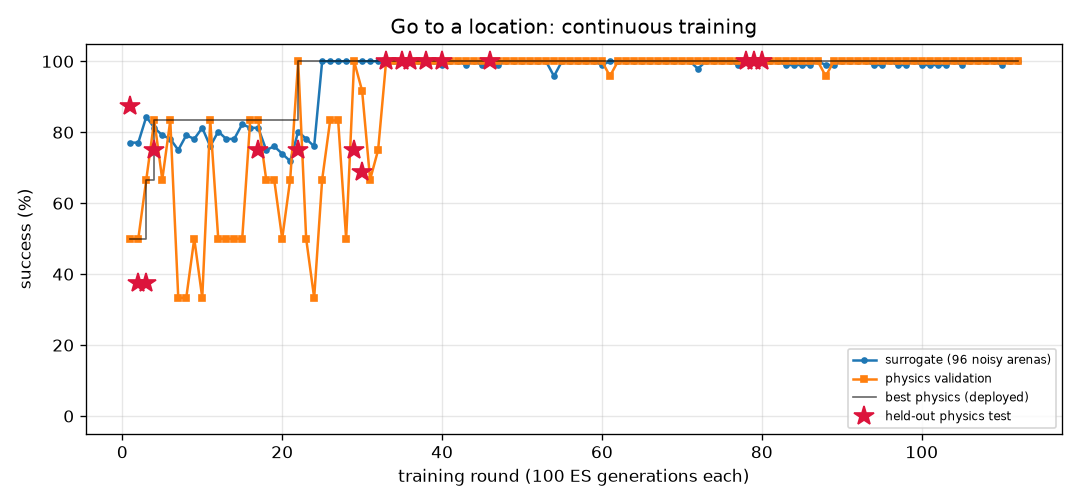
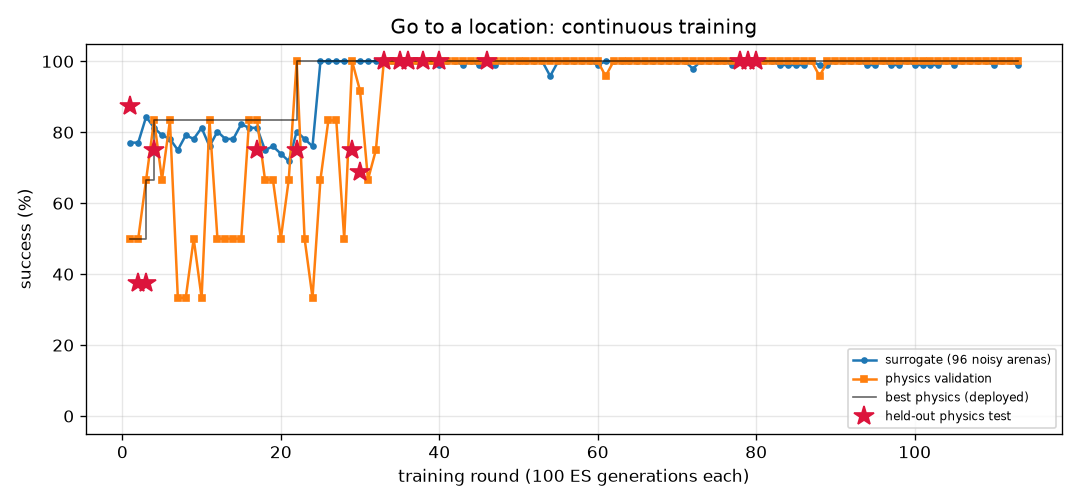
FlyLab: continuous training progress
- walk_forward: optimal, physics val 100% of 24, round 118
- turn: optimal, physics val 100% of 24, round 532
- goto: optimal, physics val 100% of 24, round 113
- odor_seek: optimal, physics val 100% of 24, round 107
- odor_avoid: optimal, physics val 100% of 24, round 531
- light_seek: optimal, physics val 100% of 24, round 299
- light_avoid: optimal, physics val 100% of 24, round 265

diff --git a/projects/09_flylab/training/light_seek/REPORT.md b/projects/09_flylab/training/light_seek/REPORT.md
@@ -1,14 +1,14 @@
 # Walk toward light (`light_seek`) — training report
 
-*Auto-generated by `train_brains.py`, last updated 2026-10-18T12:38:41.*
+*Auto-generated by `train_brains.py`, last updated 2026-10-18T13:41:15.*
 
 ![curve](curve.png)
 
 | | |
 |---|---|
-| rounds | 297 |
-| ES generations | 29700 |
-| physics runs | 3976 |
+| rounds | 299 |
+| ES generations | 29900 |
+| physics runs | 4024 |
 | status | **optimal** |
 | best brain | round 295: physics validation **100%** on 24 arenas, surrogate 100% |
 | held-out physics test | **100%** on 32 unseen arenas (95% CI 89%-100%) (errors: [0.58, 0.62, 0.61, 0.63, 0.65, 0.65, 0.73, 0.55, 0.64, 0.59, 0.59, 0.58, 0.69, 0.61, 0.59, 0.6, 0.6, 0.63, 0.59, 0.64, 0.61, 1.11, 0.62, 0.58, 0.58, 0.58, 0.67, 0.63, 0.58, 0.66, 0.67, 0.59]) |
@@ -17,8 +17,6 @@ Physics error per arena: mm from target at the end (< 1.5 and standing still = s
 
 | round | level | gens | sigma | surrogate | physics val | val errors | test | note |
 |---:|---:|---:|---:|---:|---:|---|---:|---|
-| 258 | 3 | 25800 | 0.024 | 100% | 100% | [0.48, 0.49, 0.43, 0.95, 0.43, 0.7, 0.51, 0.57, 0.51, 0.44, 0.44, 0.42, 0.45, 0.45, 0.43, 0.44, 0.47, 0.51, 0.47, 0.44, 0.43, 1.12, 0.44, 0.68] |  |  |
-| 259 | 3 | 25900 | 0.024 | 100% | 100% | [1.12, 0.48, 0.44, 0.47, 0.46, 0.97, 0.64, 0.55, 1.06, 0.43, 0.49, 0.62, 0.47, 0.8, 0.53, 0.65, 0.67, 0.66, 0.48, 0.55, 0.56, 1.05, 0.56, 0.42] |  | restart from best |
 | 260 | 3 | 26000 | 0.024 | 100% | 100% | [0.48, 0.52, 0.48, 1.19, 0.46, 0.47, 0.47, 0.48, 0.46, 0.48, 0.49, 0.47, 0.51, 0.57, 0.79, 0.46, 0.46, 0.92, 0.57, 0.49, 0.86, 0.52, 0.56, 0.49] |  |  |
 | 261 | 3 | 26100 | 0.024 | 100% | 100% | [0.48, 0.6, 0.46, 0.82, 0.55, 0.45, 0.5, 0.44, 0.45, 0.48, 0.45, 0.47, 0.48, 0.52, 0.86, 0.45, 0.7, 0.59, 0.74, 0.48, 0.45, 0.47, 0.5, 0.45] |  |  |
 | 262 | 3 | 26200 | 0.024 | 99% | 100% | [0.94, 0.74, 0.58, 0.87, 0.73, 0.96, 0.88, 1.1, 0.6, 0.55, 0.57, 0.5, 1.21, 0.93, 0.62, 0.57, 0.6, 0.94, 0.58, 0.59, 0.57, 0.82, 0.53, 0.53] |  |  |
@@ -57,3 +55,5 @@ Physics error per arena: mm from target at the end (< 1.5 and standing still = s
 | 295 | 3 | 29500 | 0.024 | 100% | 100% | [0.53, 0.58, 0.65, 0.58, 0.68, 0.6, 0.63, 0.66, 0.69, 0.62, 0.63, 0.63, 0.6, 0.65, 0.61, 0.59, 0.67, 0.77, 0.62, 0.65, 0.61, 0.64, 0.64, 0.62] | 100% | new best |
 | 296 | 3 | 29600 | 0.024 | 100% | 100% | [0.51, 0.5, 0.51, 0.65, 0.76, 0.5, 0.57, 0.53, 0.49, 0.83, 0.53, 0.49, 0.51, 0.53, 0.74, 0.49, 0.6, 0.81, 0.65, 0.7, 0.48, 0.72, 0.51, 0.56] |  |  |
 | 297 | 3 | 29700 | 0.024 | 100% | 100% | [0.85, 0.79, 0.53, 0.58, 0.49, 0.59, 0.47, 0.52, 0.51, 0.59, 0.49, 0.51, 0.55, 0.55, 0.6, 0.54, 0.59, 0.47, 0.55, 0.52, 0.46, 0.86, 0.82, 0.6] |  |  |
+| 298 | 3 | 29800 | 0.024 | 100% | 92% | [0.53, 0.56, 0.55, 0.52, 0.52, 0.56, 0.5, 0.58, 0.47, 0.62, 0.46, 1.1, 0.62, 1.01, 0.55, 0.54, 0.57, 0.46, 0.5, 0.56, 0.59, 0.69, 1.55, 2.07] |  |  |
+| 299 | 3 | 29900 | 0.024 | 100% | 96% | [1.06, 0.49, 0.52, 0.48, 0.54, 1.17, 0.82, 0.52, 0.5, 0.53, 0.69, 0.74, 0.62, 1.69, 0.54, 0.51, 0.58, 1.2, 1.07, 0.6, 0.54, 0.72, 0.48, 1.12] |  | restart from best |

diff --git a/projects/09_flylab/training/goto/REPORT.md b/projects/09_flylab/training/goto/REPORT.md
@@ -1,14 +1,14 @@
 # Go to a location (`goto`) — training report
 
-*Auto-generated by `train_brains.py`, last updated 2026-10-17T20:01:15.*
+*Auto-generated by `train_brains.py`, last updated 2026-10-18T13:27:41.*
 
 ![curve](curve.png)
 
 | | |
 |---|---|
-| rounds | 112 |
-| ES generations | 11200 |
-| physics runs | 2574 |
+| rounds | 113 |
+| ES generations | 11300 |
+| physics runs | 2598 |
 | status | **optimal** |
 | best brain | round 80: physics validation **100%** on 24 arenas, surrogate 100% |
 | held-out physics test | **100%** on 32 unseen arenas (95% CI 89%-100%) (errors: [0.36, 0.41, 0.3, 0.45, 0.32, 0.33, 0.33, 0.31, 0.35, 0.36, 0.39, 0.36, 0.28, 0.31, 0.4, 0.39, 0.34, 0.39, 0.3, 0.34, 0.36, 0.36, 0.44, 0.34, 0.3, 0.33, 0.4, 0.33, 0.29, 0.43, 0.43, 0.39]) |
@@ -17,7 +17,6 @@ Physics error per arena: mm from target at the end (< 1.5 and standing still = s
 
 | round | level | gens | sigma | surrogate | physics val | val errors | test | note |
 |---:|---:|---:|---:|---:|---:|---|---:|---|
-| 73 | 3 | 7300 | 0.025 | 100% | 100% | [0.74, 0.75, 0.6, 0.66, 0.77, 0.64, 0.76, 0.68, 0.7, 0.62, 0.68, 0.64, 0.72, 0.61, 0.71, 0.69, 0.75, 0.63, 0.61, 0.7, 0.68, 0.63, 0.75, 0.64] |  |  |
 | 74 | 3 | 7400 | 0.024 | 100% | 100% | [0.68, 0.66, 0.49, 0.51, 0.52, 0.5, 0.67, 0.59, 0.53, 0.51, 0.53, 0.5, 0.57, 0.51, 0.55, 0.63, 0.59, 0.52, 0.51, 0.54, 0.6, 0.51, 0.59, 0.49] |  | restart from best |
 | 75 | 3 | 7500 | 0.024 | 100% | 100% | [0.77, 0.76, 0.58, 0.59, 0.58, 0.61, 0.72, 0.65, 0.63, 0.58, 0.57, 0.59, 0.69, 0.56, 0.58, 0.68, 0.72, 0.65, 0.59, 0.65, 0.65, 0.58, 0.69, 0.6] |  |  |
 | 76 | 3 | 7600 | 0.024 | 100% | 100% | [0.6, 0.56, 0.42, 0.45, 0.54, 0.45, 0.6, 0.45, 0.5, 0.42, 0.49, 0.44, 0.55, 0.39, 0.45, 0.46, 0.59, 0.46, 0.43, 0.48, 0.45, 0.43, 0.55, 0.43] |  |  |
@@ -57,3 +56,4 @@ Physics error per arena: mm from target at the end (< 1.5 and standing still = s
 | 110 | 3 | 11000 | 0.024 | 99% | 100% | [0.51, 0.47, 0.37, 0.47, 0.36, 0.41, 0.5, 0.45, 0.52, 0.39, 0.38, 0.46, 0.53, 0.39, 0.43, 0.43, 0.53, 0.42, 0.37, 0.51, 0.39, 0.41, 0.52, 0.46] |  |  |
 | 111 | 3 | 11100 | 0.025 | 100% | 100% | [0.44, 0.45, 0.37, 0.42, 0.34, 0.41, 0.42, 0.45, 0.46, 0.34, 0.36, 0.41, 0.47, 0.39, 0.45, 0.39, 0.47, 0.39, 0.33, 0.44, 0.38, 0.34, 0.48, 0.45] |  |  |
 | 112 | 3 | 11200 | 0.024 | 100% | 100% | [0.49, 0.46, 0.43, 0.37, 0.39, 0.34, 0.5, 0.37, 0.4, 0.37, 0.36, 0.37, 0.43, 0.35, 0.43, 0.43, 0.46, 0.34, 0.37, 0.4, 0.41, 0.36, 0.43, 0.36] |  | restart from best |
+| 113 | 3 | 11300 | 0.024 | 99% | 100% | [0.44, 0.39, 0.28, 0.36, 0.29, 0.31, 0.39, 0.35, 0.37, 0.32, 0.31, 0.35, 0.39, 0.32, 0.37, 0.36, 0.46, 0.36, 0.3, 0.4, 0.33, 0.32, 0.43, 0.34] |  |  |

diff --git a/projects/09_flylab/training/TRAINING.md b/projects/09_flylab/training/TRAINING.md
@@ -1,6 +1,6 @@
 # FlyLab brains — continuous training log
 
-*Auto-generated by `train_brains.py`, last updated 2026-10-18T12:55:45.*
+*Auto-generated by `train_brains.py`, last updated 2026-10-18T13:41:15.*
 
 Every skill has its own brain and its own training process: surrogate ES rounds, physics validation in MuJoCo, keep-the-best selection, and a held-out physics test that is never used for selection. See each skill's report for its full round-by-round history. Mastery is progressive: passing a level (100% physics validation, >=95% surrogate) doubles the validation and test arena sets; a brain is **optimal** once it holds up at level 3 (>=95% of 24 validation arenas) AND scores >=90% on the 32 held-out test arenas. Test columns show 95% Wilson confidence intervals.
 
@@ -8,8 +8,8 @@ Every skill has its own brain and its own training process: surrogate ES rounds,
 |---|---:|---:|---:|---:|---:|---:|---|
 | [Walk forward](walk_forward/REPORT.md) | 118 | 11800 | 2846 | 100% | 100% of 24 | 100% of 32 (CI 89-100%) | **optimal** |
 | [Turn in place](turn/REPORT.md) | 532 | 53200 | 13014 | 100% | 100% of 24 | 97% of 32 (CI 84-99%) | **optimal** |
-| [Go to a location](goto/REPORT.md) | 112 | 11200 | 2574 | 100% | 100% of 24 | 100% of 32 (CI 89-100%) | **optimal** |
+| [Go to a location](goto/REPORT.md) | 113 | 11300 | 2598 | 100% | 100% of 24 | 100% of 32 (CI 89-100%) | **optimal** |
 | [Find food by smell](odor_seek/REPORT.md) | 107 | 10700 | 1934 | 100% | 100% of 24 | 100% of 32 (CI 89-100%) | **optimal** |
 | [Escape a bad smell](odor_avoid/REPORT.md) | 531 | 53100 | 10050 | 97% | 100% of 24 | 97% of 32 (CI 84-99%) | **optimal** |
-| [Walk toward light](light_seek/REPORT.md) | 297 | 29700 | 3976 | 100% | 100% of 24 | 100% of 32 (CI 89-100%) | **optimal** |
+| [Walk toward light](light_seek/REPORT.md) | 299 | 29900 | 4024 | 100% | 100% of 24 | 100% of 32 (CI 89-100%) | **optimal** |
 | [Hide from light](light_avoid/REPORT.md) | 265 | 26500 | 6632 | 100% | 100% of 24 | 100% of 32 (CI 89-100%) | **optimal** |
